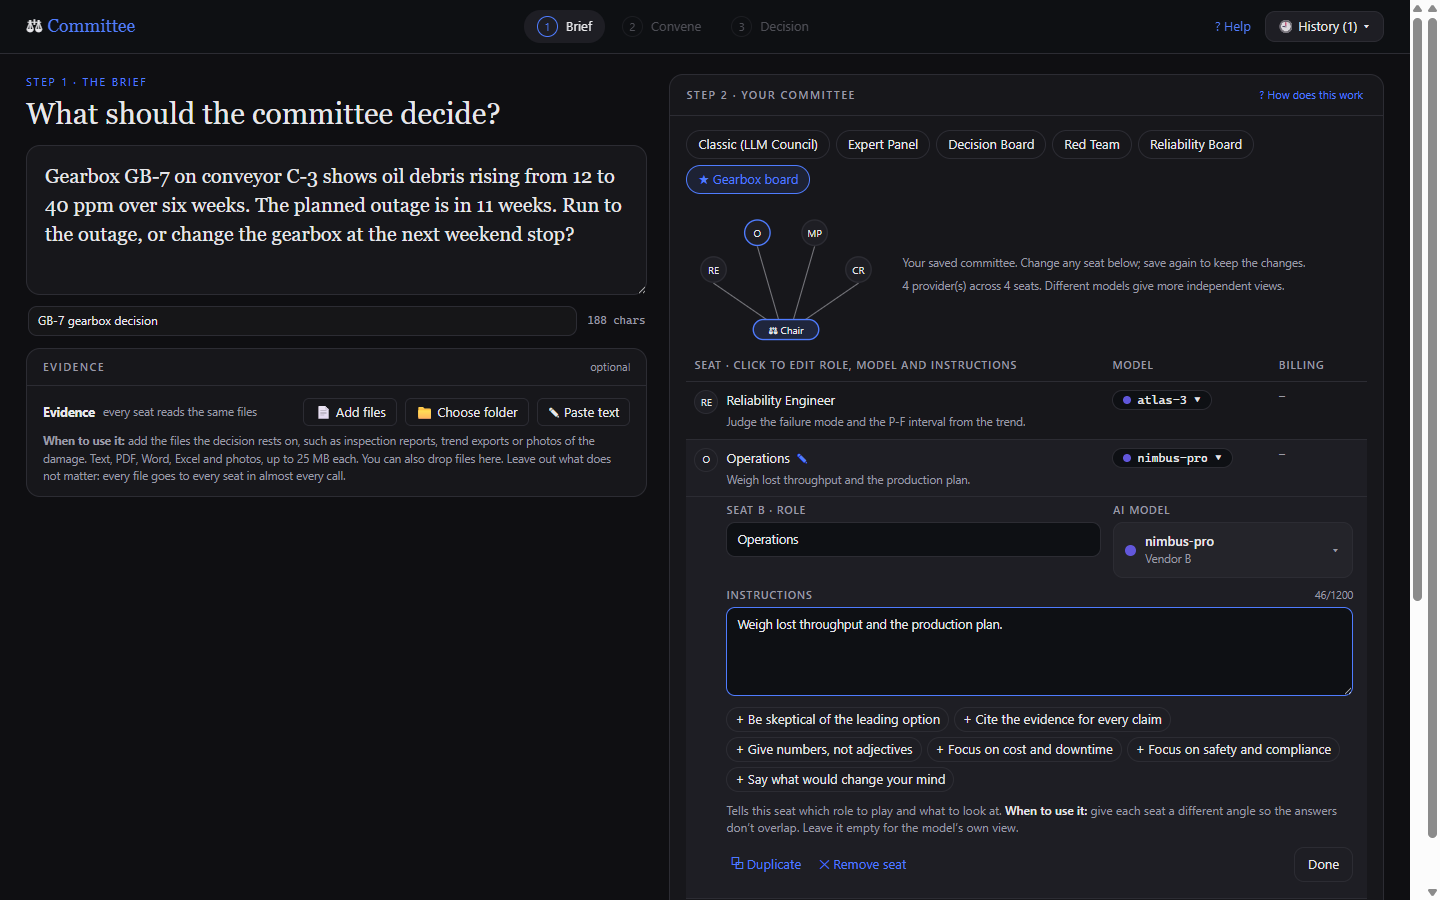
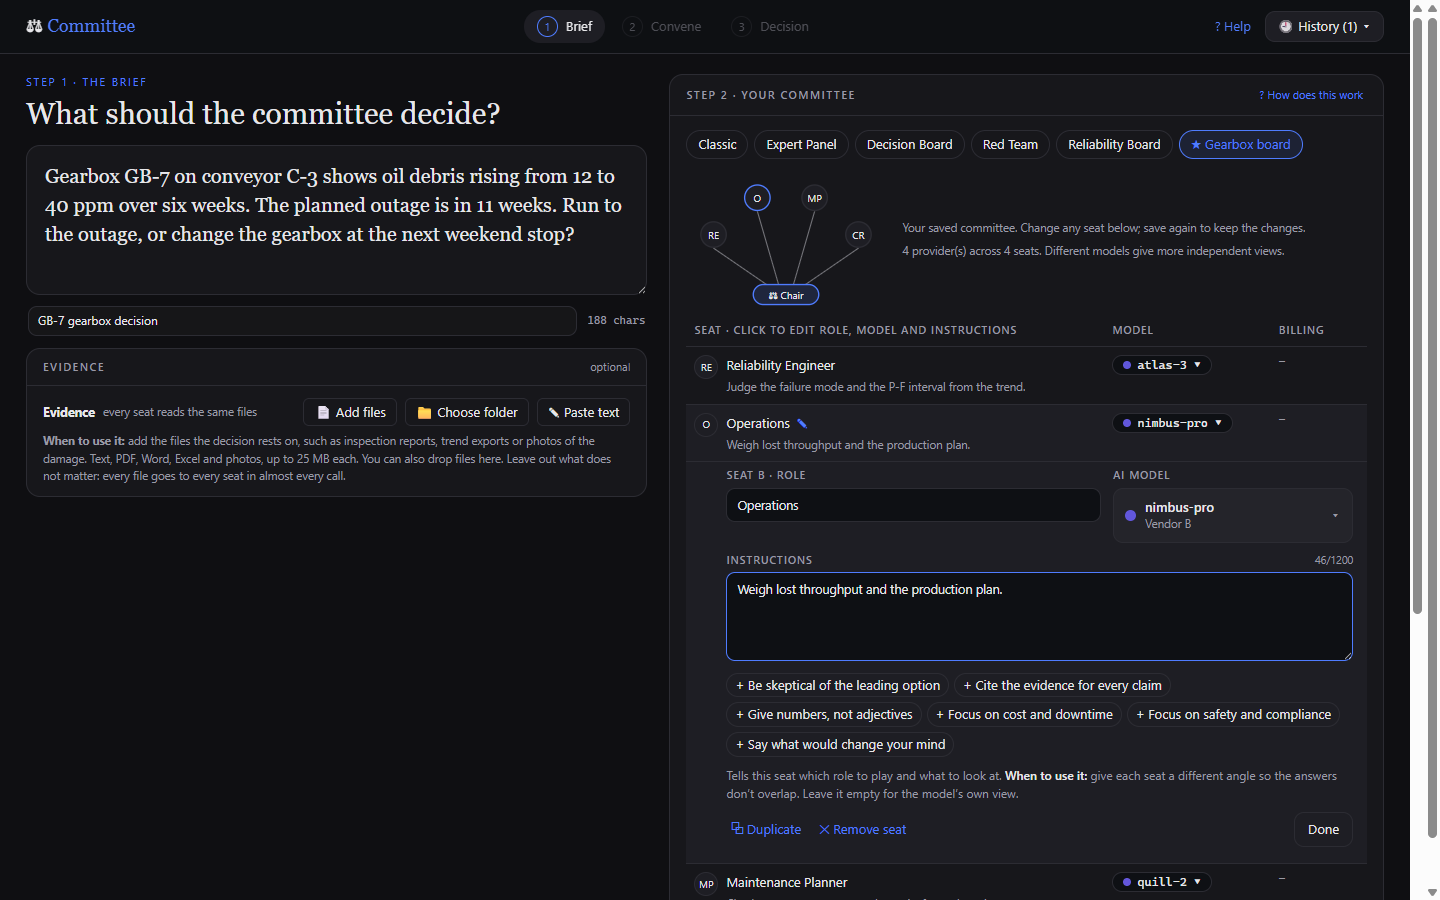
One credit to llm-council in the README; our own wording elsewhere; Classic type renamed

diff --git a/desktop/plugin.js b/desktop/plugin.js
@@ -506,7 +506,7 @@ function Help({ onClose, setup }) {
     h('div', { className: 'hc-card hc-help' },
       h('div', { className: 'hc-row' }, h('b', { style: { fontSize: 15 } }, 'How to use the Committee'), h('span', { className: 'hc-grow' }), h('button', { className: 'hc-link', onClick: onClose }, '✕ Close')),
       sec('What it does',
-        p('A committee is several AI models answering the same question. It runs in three stages, after Karpathy’s LLM Council:'),
+        p('A committee is several AI models answering the same question. It runs in stages:'),
         h('ol', { className: 'hc-list hc-sm' },
           h('li', null, h('b', null, 'Answers. '), 'Every seat answers on its own, without seeing the others.'),
           h('li', null, h('b', null, 'Blind vote. '), 'Each seat ranks the others’ answers, labelled only “Response A, B, C…”, so nobody can favour a brand.'),

diff --git a/__init__.py b/__init__.py
@@ -1,4 +1,4 @@
-"""hermes-committee — Karpathy's LLM Council for Hermes Agent, with seat roles, evidence and reports.
+"""hermes-committee — a committee of AI models for hard decisions, with roles, evidence, debate and reports.
 
 Hermes surfaces used (all public): ctx.register_tool / register_hook / register_skill /
 register_cli_command, ctx.llm (per-seat provider/model, gated by the user's
@@ -157,7 +157,7 @@ OPEN_SCHEMA = {
     "description": (
         "Use when the user asks, in any words, to convene a committee or council on a question (often with "
         "attached files). "
-        "Convene a committee of AI models (Karpathy's LLM Council): seats answer a question independently, "
+        "Convene a committee of AI models: seats answer a question independently, "
         "rank each other's anonymous answers, and a chairman writes the final answer, with a Markdown and "
         "PDF report. Use only for hard, contested or high-stakes questions — it makes several model calls. "
         "Load the skill hermes-committee:convene first; it explains the full procedure. After this call, "
@@ -766,7 +766,7 @@ def register(ctx):
     except Exception:  # noqa: BLE001 - model notes are optional
         logger.debug("hermes-committee: no data dir for model notes", exc_info=True)
     ctx.register_tool(name="committee_open", toolset="committee", schema=OPEN_SCHEMA, handler=handle_open,
-                      description="Convene an AI committee (LLM Council)", emoji="🏛")
+                      description="Convene a committee of AI models", emoji="🏛")
     ctx.register_tool(name="committee_advance", toolset="committee", schema=ADVANCE_SCHEMA,
                       handler=handle_advance, description="Run the next committee stage", emoji="🏛")
     ctx.register_hook("post_tool_call", _on_post_tool_call)

diff --git a/committee/templates.py b/committee/templates.py
@@ -4,7 +4,7 @@ A template is a roster of seat *roles* (name + instructions) plus guidance for t
 chairman. It never names a model: models come from the user's preset, or fall back to
 the user's active Hermes model.
 
-``classic`` is Karpathy's LLM Council as published: members get no persona, answer
+``classic``: members get no persona, answer
 independently, rank each other anonymously, and a chairman compiles the final answer.
 """
 from __future__ import annotations
@@ -14,8 +14,8 @@ from typing import Any
 
 TEMPLATES: dict[str, dict[str, Any]] = {
     "classic": {
-        "title": "Classic (LLM Council)",
-        "description": ("Karpathy's LLM Council: members answer independently with no persona, "
+        "title": "Classic",
+        "description": ("The plain committee: members answer independently with no role, "
                         "rank each other anonymously, and a chairman compiles one answer."),
         "seats": [
             {"name": "Member 1", "instructions": ""},

diff --git a/tests/test_config.py b/tests/test_config.py
@@ -9,7 +9,7 @@ def test_zero_config_is_classic_on_active_model():
     assert r["template"] == "classic"
     assert len(r["seats"]) == 4
     assert all(s["provider"] == "" and s["model"] == "" for s in r["seats"])
-    assert all(s["instructions"] == "" for s in r["seats"])      # Karpathy: no personas
+    assert all(s["instructions"] == "" for s in r["seats"])      # classic: no personas
     assert r["quorum"] == 3
     assert any("correlated" in w for w in r["warnings"])
 

diff --git a/committee/prompts.py b/committee/prompts.py
@@ -1,6 +1,6 @@
 """Prompts and JSON schemas for the three stages.
 
-Anonymity rule (Karpathy): Stage-2 reviewers see only "Response A/B/C" labels — never seat
+Anonymity rule: Stage-2 reviewers see only "Response A/B/C" labels — never seat
 names, roles or model ids. The chairman sees role names (useful context) but never model ids.
 Every schema lists all properties as required (strict structured-output providers demand it);
 empty strings / lists are allowed.

diff --git a/committee/report_pdf.py b/committee/report_pdf.py
@@ -131,7 +131,7 @@ def _new_pdf(run: dict[str, Any], theme: dict):
     pdf.set_subject(_plain(run.get("question") or "")[:200])
     pdf.set_creator(f"{PRODUCT} {__version__} (plugin for Hermes Agent)")
     pdf.set_author(PRODUCT)
-    pdf.set_keywords("Hermes Committee, LLM council, committee report")
+    pdf.set_keywords("Hermes Committee, AI committee, decision report")
     return pdf, XPos, YPos
 
 

diff --git a/committee/engine.py b/committee/engine.py
@@ -629,7 +629,7 @@ def repair_ranking(raw: list[Any], shown: list[str]) -> tuple[list[str], bool]:
 
 
 def parse_text_ranking(text: str) -> list[str]:
-    """Karpathy-style fallback: labels in order after the last 'FINAL RANKING'."""
+    """Plain-text fallback: labels in order after the last 'FINAL RANKING'."""
     m = None
     for m in _FINAL_RE.finditer(text or ""):
         pass

diff --git a/README.md b/README.md
@@ -3,10 +3,10 @@
 **Ask several AI models the same hard question. They answer on their own, rank each other's
 answers blind, and a chairman model writes the verdict.**
 
-It is Karpathy's [LLM Council](https://github.com/karpathy/llm-council) for
-[Hermes Agent](https://hermes-agent.nousresearch.com), with a Desktop page where you can pick a
-model for each seat, give each seat its own instructions, watch the run live, and read the result.
-It also writes a PDF report.
+A plugin for [Hermes Agent](https://hermes-agent.nousresearch.com). Give each seat a role, a model
+and its own instructions, add your evidence, let the seats debate where they disagree, and set a
+time limit and budget. A Desktop page shows the run live, and every committee ends with a
+decision, its dissent, next actions and a PDF report.
 
 | 1 · Brief | 2 · Convene | 3 · Decision |
 |---|---|---|
@@ -89,7 +89,7 @@ Choose a **committee type** from the chips under the question:
 
 | Committee | Seats | Good for |
 |---|---|---|
-| **Classic (LLM Council)** | 4 members, same task | Karpathy's original council, any question |
+| **Classic** | 4 members, same task, no roles | Any question; the purest comparison of models |
 | **Expert Panel** | Domain Expert, Practitioner, Researcher, Skeptic | Technical questions |
 | **Decision Board** | Strategist, Risk Officer, Operator, Finance | Choosing between options |
 | **Red Team** | Pre-mortem, Assumption Auditor, Adversary, Edge-case Hunter | Stress-testing a plan or claim |
@@ -364,14 +364,14 @@ files, use the Committee page, where you can see each file's size and the cost b
 
 ### How it works
 
-| Stage | What happens | Same as Karpathy's council? |
+| Stage | What happens | Notes |
 |---|---|---|
-| 0. Brief | Hermes frames the question and gathers an **evidence pack** (your files, numbers, short research with sources). From the page, your evidence box is the pack. | Added |
-| 1. Answers | Every seat answers **independently and in parallel**, with its role and instructions. | Yes, roles optional |
-| 2. Peer ranking | Every seat ranks **all answers, anonymized** as Response A, B, C… Each reviewer sees them in a **different shuffled order**, and names and model ids are scrubbed from the text. | Yes, plus shuffling and scrubbing |
-| 2b. Deliberation | Optional, after the vote. The chairman lists the disputed points and tags each (action / claim / emphasis); the **plugin** decides from the setting whether to debate. Each seat holds or changes its position per point, with a reason; 1 or 2 rounds. | Added |
-| 3. Chairman | The chairman writes the final answer from the answers, critiques, rankings and any deliberation, and says which argument decided each disputed point. It must **keep dissent visible**. | Yes, plus dissent rule |
-| Report | Markdown + PDF: verdict, roster, ranking matrix, agreement and dissent, one page per seat, method and usage. | Added |
+| 0. Brief | Hermes frames the question and gathers an **evidence pack** (your files, numbers, short research with sources). From the page, your evidence box is the pack. | Optional |
+| 1. Answers | Every seat answers **independently and in parallel**, with its role and instructions. | Roles optional |
+| 2. Peer ranking | Every seat ranks **all answers, anonymized** as Response A, B, C… Each reviewer sees them in a **different shuffled order**, and names and model ids are scrubbed from the text. | Shuffled per reviewer |
+| 2b. Deliberation | Optional, after the vote. The chairman lists the disputed points and tags each (action / claim / emphasis); the **plugin** decides from the setting whether to debate. Each seat holds or changes its position per point, with a reason; 1 or 2 rounds. | Optional |
+| 3. Chairman | The chairman writes the final answer from the answers, critiques, rankings and any deliberation, and says which argument decided each disputed point. It must **keep dissent visible**. | Dissent kept |
+| Report | Markdown + PDF: verdict, roster, ranking matrix, agreement and dissent, one page per seat, method and usage. | Executive summary on page 1 |
 
 Each stage is its own tool call, run by plugin code, so the model cannot skip a stage or see
 identities it shouldn't, and no call gets near Hermes's 420-second tool limit.
@@ -447,7 +447,7 @@ Paragraphs containing Arabic script are set right-to-left.
 
 ### How this differs from `hermes-council`
 
-[`girayk/hermes-council`](https://github.com/girayk/hermes-council) also ports Karpathy's council.
+[`girayk/hermes-council`](https://github.com/girayk/hermes-council) is another multi-model council for Hermes.
 This is a separate implementation that uses only public plugin APIs (`ctx.llm`, tools, hooks, a
 bundled skill), adds no provider to your model menu, runs one stage per visible tool call with
 live progress and Stop, and adds per-seat roles and instructions, templates, the evidence pack,
@@ -467,6 +467,7 @@ fallback, drafts and the permission check, the reports, and the tool/hook glue.
 
 ## Credits and license
 
-- Council concept and the three-stage protocol: [karpathy/llm-council](https://github.com/karpathy/llm-council).
+- The three-stage core (independent answers, anonymous peer ranking, chairman) builds on Andrej
+  Karpathy's [llm-council](https://github.com/karpathy/llm-council).
 - Fonts: Noto Sans and Noto Naskh Arabic, SIL Open Font License 1.1 (`assets/fonts/OFL.txt`).
 - Code: MIT (see `LICENSE`).

diff --git a/skills/convene/SKILL.md b/skills/convene/SKILL.md
@@ -1,12 +1,12 @@
 ---
 name: convene
-description: Convene an AI committee (Karpathy's LLM Council) on a hard question.
+description: Convene a committee of AI models on a hard question.
 ---
 
 # Convene the committee
 
-The user wants a committee of AI models to deliberate. The committee runs Karpathy's LLM
-Council: **Stage 1** every seat answers independently, **Stage 2** seats rank each other's
+The user wants a committee of AI models to deliberate. The committee runs in stages:
+**Stage 1** every seat answers independently, **Stage 2** seats rank each other's
 anonymous answers, **Stage 3** a chairman writes the final answer. The plugin runs the stages;
 your job is the brief before and the presentation after.
 

diff --git a/CHANGELOG.md b/CHANGELOG.md
@@ -169,7 +169,7 @@ First version.
 
 - Three-stage committee: independent answers, anonymous peer ranking with per-reviewer shuffling
   and identity scrubbing, and a chairman synthesis that keeps dissent visible.
-- Templates: classic (Karpathy), expert-panel, decision-board, red-team, reliability-board.
+- Templates: classic, expert-panel, decision-board, red-team, reliability-board.
   Custom seats can also be named in chat.
 - Per-seat provider and model through `ctx.llm`, gated by the user's allowlist.
 - One stage per tool call; quorum, a time limit per stage, and fallback when structured output fails.
